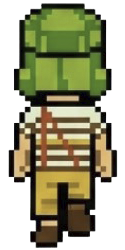
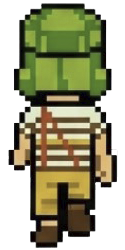
Melhoria simples nos frames direcionais do chaves.

Changed region(s): [[0.048, 0.588, 0.264, 0.756], [0.744, 0.588, 0.936, 0.756], [0.84, 0.588, 0.936, 0.644]]

diff --git a/classes/jogo.py b/classes/jogo.py
@@ -70,13 +70,13 @@ class Jogo:
                          carregar_sprite("chaves/chaves_baixo_3.png"),
                          carregar_sprite("chaves/chaves_baixo_4.png")] # sprites do chaves pra baixo
 
-        Player.images[1] = [carregar_sprite("chaves/chaves_direita_3.png"),
+        Player.images[1] = [carregar_sprite("chaves/chaves_direita_parado.png"),
                          carregar_sprite("chaves/chaves_direita_1.png"),
                          carregar_sprite("chaves/chaves_direita_2.png"),
                          carregar_sprite("chaves/chaves_direita_3.png"),
                          carregar_sprite("chaves/chaves_direita_4.png")]
 
-        Player.images[2] = [carregar_sprite("chaves/chaves_direita_3.png", 70, 140, True),
+        Player.images[2] = [carregar_sprite("chaves/chaves_direita_parado.png", 70, 140, True),
                          carregar_sprite("chaves/chaves_direita_1.png", 70, 140, True),
                          carregar_sprite("chaves/chaves_direita_2.png", 70, 140, True),
                          carregar_sprite("chaves/chaves_direita_3.png", 70, 140, True),